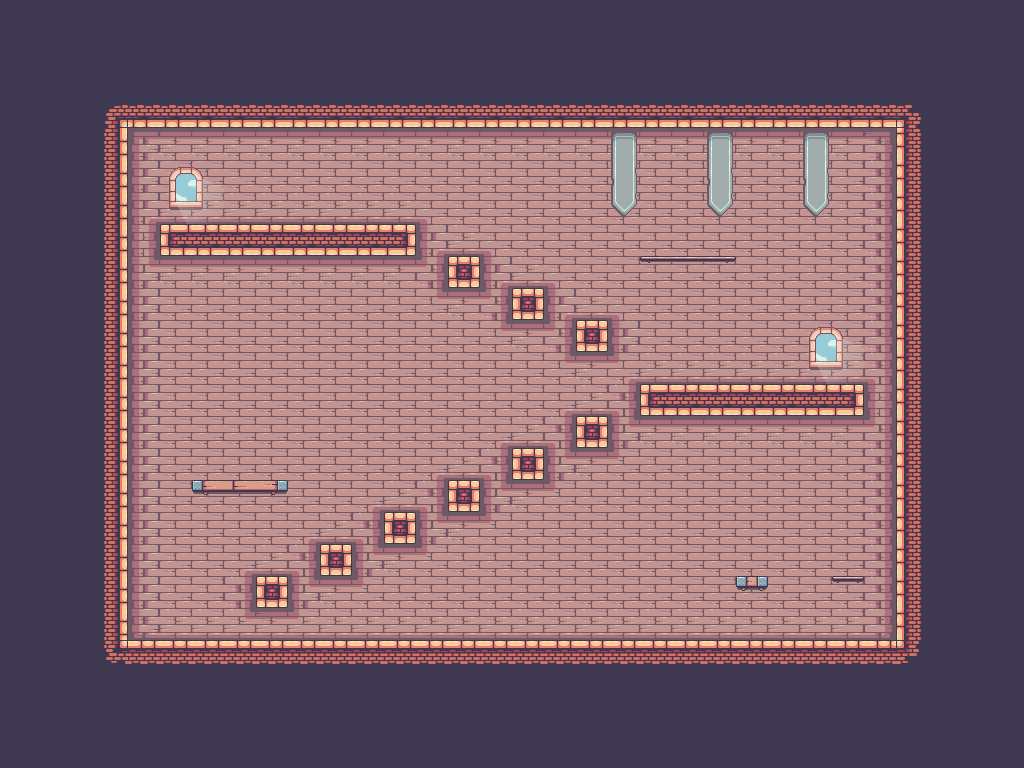
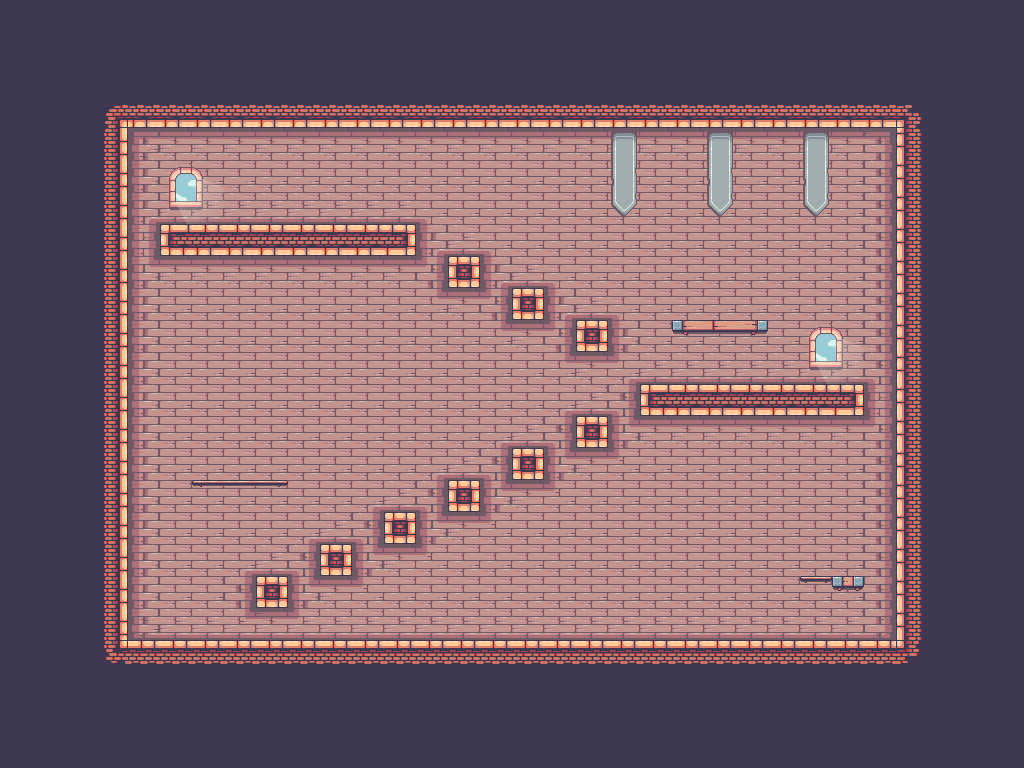
add: platforms feature

diff --git a/src/games/KingsAndPigs/hooks/game/useLevel.ts b/src/games/KingsAndPigs/hooks/game/useLevel.ts
@@ -19,6 +19,7 @@ const useLevel = () => {
     current: 1,
     texture: null,
     collisionBlocks: [],
+    platformBlocks: [],
     initialPosition: new Point(-100, -100),
     doors: [],
     player: {
@@ -93,8 +94,11 @@ const useLevel = () => {
       ({ name }) => name === 'Detections'
     )?.layers;
 
+    const map = levelData.layers.find(({ name }) => name === 'Map')?.layers;
+
     const layers = {
-      collisions: main?.find(({ name }) => name === 'Collisions')?.data,
+      platforms: map?.find(({ name }) => name === 'Platforms')?.data,
+      collisions: map?.find(({ name }) => name === 'Blocks')?.data,
       doorNext: main?.find(({ name }) => name === 'Door Next')?.data,
       doorPrev: main?.find(({ name }) => name === 'Door Prev')?.data,
       diamonds: main?.find(({ name }) => name === 'Diamonds')?.data,
@@ -105,7 +109,7 @@ const useLevel = () => {
     };
 
     const collisionBlocks =
-      layers.collisions && blocksFrom2D(parse2D(layers.collisions));
+      (layers.collisions && blocksFrom2D(parse2D(layers.collisions))) || [];
     const doorNext =
       layers.doorNext && blocksFrom2D(parse2D(layers.doorNext))[0];
     const doorPrev =
@@ -117,11 +121,15 @@ const useLevel = () => {
     const bigChains =
       layers.bigChains && blocksFrom2D(parse2D(layers.bigChains));
     const windows = layers.windows && blocksFrom2D(parse2D(layers.windows));
+    const platformBlocks =
+      (layers.platforms && blocksFrom2D(parse2D(layers.platforms), 32, 10)) ||
+      [];
 
-    if (doorNext && doorPrev && collisionBlocks) {
+    if (doorNext && doorPrev) {
       setLevel((prevLevel) => ({
         ...prevLevel,
         collisionBlocks,
+        platformBlocks,
         doors: [
           {
             type: 'next',

diff --git a/src/games/KingsAndPigs/hooks/game/useCollisions.ts b/src/games/KingsAndPigs/hooks/game/useCollisions.ts
@@ -54,7 +54,8 @@ const useCollisions = () => {
     player: PlayerState,
     blocks: Block[],
     setPositionY: (y: number) => void,
-    setVelocityY: (y: number) => void
+    setVelocityY: (y: number) => void,
+    checkOnlyUp = false
   ) => {
     const { hitbox } = player;
     for (let i = 0; i < blocks.length; i++) {
@@ -63,7 +64,7 @@ const useCollisions = () => {
       if (getIfExistVertical(player, block)) {
         const playerIsGoingDown = player.velocity.y > 0;
         const playerIsGoindUp = player.velocity.y < 0;
-        if (playerIsGoindUp) {
+        if (playerIsGoindUp && !checkOnlyUp) {
           setVelocityY(0);
           const offset = hitbox.position.y - player.position.y;
           setPositionY(block.position.y + block.height - offset + 0.01);

diff --git a/src/games/KingsAndPigs/hooks/game/usePlayer.ts b/src/games/KingsAndPigs/hooks/game/usePlayer.ts
@@ -51,7 +51,7 @@ const usePlayer = ({
   items,
   setControls,
 }: usePlayerProps) => {
-  const { initialPosition, collisionBlocks } = level;
+  const { initialPosition, collisionBlocks, platformBlocks } = level;
   const { applyHorizontal, applyVertical } = useCollisions();
   const [isFalling, setIsFalling] = useState(false);
   const [isRunning, setIsRunning] = useState(false);
@@ -477,6 +477,7 @@ const usePlayer = ({
     applyGravity();
     autodetectHitbox();
     applyVertical(player, collisionBlocks, setPositionY, setVelocityY);
+    applyVertical(player, platformBlocks, setPositionY, setVelocityY, true);
     checkDialogs();
     checkIfPickupItem();
   });

diff --git a/src/utils/tiles/blocksFrom2D/blocksFrom2D.ts b/src/utils/tiles/blocksFrom2D/blocksFrom2D.ts
@@ -12,16 +12,16 @@ interface Block {
  * @param array for parse its in two dimensions
  * @return array
  */
-export default (array: number[][]): Block[] => {
+export default (array: number[][], width = 32, height = 32): Block[] => {
   const blocksFrom2D: Block[] = [];
 
   array.forEach((row, y) => {
     row.forEach((symbol, x) => {
-      if (symbol === 41) {
+      if (symbol !== 0) {
         blocksFrom2D.push({
           position: new Point(x * 32, y * 32),
-          width: 32,
-          height: 32,
+          width,
+          height,
         });
       }
     });

diff --git a/src/games/KingsAndPigs/components/Debugger/Debugger.tsx b/src/games/KingsAndPigs/components/Debugger/Debugger.tsx
@@ -48,6 +48,9 @@ const Debugger = ({
       {level.collisionBlocks.map((block, i) => (
         <GraphicsComponent key={i} draw={(g) => draw(g, block)} />
       ))}
+      {level.platformBlocks.map((block, i) => (
+        <GraphicsComponent key={i} draw={(g) => draw(g, block)} />
+      ))}
       {doors?.map(({ hitbox }, i) => (
         <GraphicsComponent key={i} draw={(g) => draw(g, hitbox)} />
       ))}

diff --git a/src/games/KingsAndPigs/interfaces/levels/levels.ts b/src/games/KingsAndPigs/interfaces/levels/levels.ts
@@ -7,6 +7,7 @@ export interface LevelKingAndPigs {
   current: AvailablesLevels;
   texture: Texture | null;
   collisionBlocks: Block[];
+  platformBlocks: Block[];
   decorations?: DecorationsLevel;
   initialPosition: Point;
   doors: LevelDoor[];

diff --git a/src/games/KingsAndPigs/KingsAndPigs.tsx b/src/games/KingsAndPigs/KingsAndPigs.tsx
@@ -24,7 +24,6 @@ const KingsAndPigs = () => {
   useEffect(() => {
     if (sounds) sounds.music.play();
   }, [sounds]);
-  console.log(level);
 
   return (
     <>
